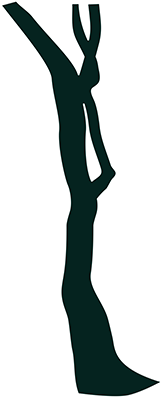
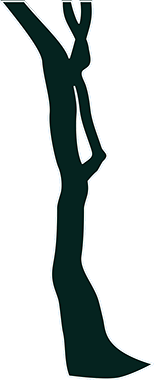
4 new lookup images, lookup 200mya complete

diff --git a/js/evoroom.js b/js/evoroom.js
@@ -755,7 +755,8 @@ EvoRoom.Mobile = function() {
       jQuery('#information-lookup-year').show();
       jQuery('#information-lookup-container').show();
 
-      var time = '';
+      // START HERE
+      var time = '200mya';
       app.showTimePeriodLandscape(time);
     });
 
@@ -815,38 +816,37 @@ EvoRoom.Mobile = function() {
   /************** Helper functions **************/
 
   app.showTimePeriodLandscape = function(time) {
+    jQuery('<div class="organism-image-container">').html('');
+    jQuery('#lookup-text').text("None selected.");
 
-    // jQuery().get().done(function () {
-
-    //   _.each(data, function () {
-    //     var cont = jQuery('<div class="organism-image-container">');
-    //     var src = '';
-    //     cont.append('<img class="image-button image-button-off" src="" />');
-    //     cont.append('<img class="image-button image-button-on" src="" />');
-    //     // need to also add class for css
+    // grab the orgs and org descriptions for Information Lookup guy
+    jQuery.get('assets/static_data/information_lookup.json', function(data) {
+      _.each(data[time], function (text, org) {
+        var cont = jQuery('<div class="organism-image-container">');
+        cont.attr('id',"organism-"+org);
+        var srcOff = 'assets/information_lookup_images/' + time + '/' + org + '_white.png';
+        var srcOn = 'assets/information_lookup_images/' + time + '/' + org + '_blue.png';
+        cont.append('<img class="image-button image-button-off" src="'+srcOff+'" />');
+        cont.append('<img class="image-button image-button-on" src="'+srcOn+'" style="display:none"/>');
         
-    //     cont.click(function(ev) {
-    //       jQuery('.image-button-on').hide();
-    //       var imageButton = jQuery(ev.target);
-    //       var org = imageButton.data('organism');
+        cont.click(function(ev) {
+          jQuery('#lookup-text').text("None selected.");
+          jQuery('.image-button-off').show();
+          jQuery('.image-button-on').not(cont.find('.image-button-on')).hide();
+          if (cont.find('.image-button-on').is(':visible')) {
+            cont.find('.image-button-on').hide();
+            cont.find('.image-button-off').show();
+          } else {
+            cont.find('.image-button-off').hide();
+            cont.find('.image-button-on').show();
+            jQuery('#lookup-text').text(text);
+          }
+        });
 
-    //       if (imageButton.find('.image-button-on').is(':visible')) {
-    //         imageButton.find('.image-button-on').show();
-    //         imageButton.find('.image-button-off').hide();
-    //       } else {
-    //         imageButton.find('.image-button-on').hide();
-    //         imageButton.find('.image-button-off').show();
-    //       }
-
-    //       // do the #lookup-text ajax
-    //       //jQuery.get
-    //       //lookup-text.html
-
-    //       jQuery('#organisms-go-here').append(cont);
-    //     });
-    //   });
-
-    // });
+        jQuery('#clickable-organism-container').append(cont);
+      });
+      jQuery('#clickable-organism-container').append('<div id="lookup-text" class="highlighted-text">None selected.</div>')
+    });
     
   };
 
@@ -861,9 +861,6 @@ EvoRoom.Mobile = function() {
       app.createNewObservation();
       jQuery('#organism-presence').show();      
     }
-
-    // START HERE (need to copy assigned_organisms so that there are some to do for r2)
-    // else reset the time array and change organisms (if there are orgs left)
     else {
       if (app.user.get('phase_data').assigned_organisms && app.user.get('phase_data').assigned_organisms.length > 0) {
         if (app.user.get('direction') === "forward") {

diff --git a/css/evoroom.css b/css/evoroom.css
@@ -252,30 +252,6 @@ header {
     height: 300px;
 }
 
-
-/* ========= INFO LOOKUP ========= */
-
-#information-lookup-overview .time-period-image {
-    margin-top: 15px;
-}
-
-#information-lookup-container {
-    position: absolute;
-    top: 420px;
-}
-
-#clickable-rainforest-image {
-    position: absolute;
-}
-
-/* 200 mya */
-#organism-dinosaur {
-    position: absolute;
-    top: 95px;
-    left: 515px;
-}
-
-
 #explanation-response .explanation-entry {
     font-size: 20px;
     margin-top: 15px;
@@ -295,3 +271,55 @@ header {
 #explanation-response label {
     font-weight: normal;
 }
+
+/* ========= INFO LOOKUP ========= */
+
+#information-lookup-overview .time-period-image {
+    margin-top: 15px;
+}
+
+#information-lookup-container {
+    position: absolute;
+    top: 420px;
+}
+
+#clickable-rainforest-image {
+    position: absolute;
+}
+
+.image-button {
+    position: absolute;
+}
+
+#lookup-text {
+    position: absolute;
+    top: 410px;
+    left: 180px;
+    width: 445px;
+}
+
+/* 200 mya */
+#organism-dinosaur {
+    position: absolute;
+    top: 95px;
+    left: 515px;
+}
+#organism-hadrocodium {
+    position: absolute;
+    top: 355px;
+    left: 380px;
+}
+#organism-leaf {
+    position: absolute;
+    top: 110px;
+    left: 120px;    
+}
+#organism-tree1 {
+    position: absolute;
+    left: -45px;    
+}
+#organism-tree2 {
+    position: absolute;
+    left: 692px;    
+}
+

diff --git a/index.html b/index.html
@@ -262,7 +262,7 @@
         </div>
         <div id="information-lookup-container" style="display:none">
             <img id="clickable-rainforest-image" src="assets/information_lookup_images/200mya/200mya_augmented.png"></img>
-            <div id="organisms-go-here">
+            <div id="clickable-organism-container">
             </div>
 <!--             <div id="organism-dinosaur" class="organism-image-container" data-organism="dinosaur">
                 <img class="image-button image-button-off" src="assets/information_lookup_images/200mya/dinosaur_white.png"></img>
@@ -273,9 +273,6 @@
                 <img class="image-button image-button-off" src="assets/information_lookup_images/200mya/dinosaur_white.png"></img>
                 <img class="image-button image-button-on" src="assets/information_lookup_images/200mya/dinosaur_blue.png" style="display:none"></img>
             </div> -->
-
-
-            <div id="lookup-text" class="highlighted-text">None selected.</div>
         </div>  
 
         
